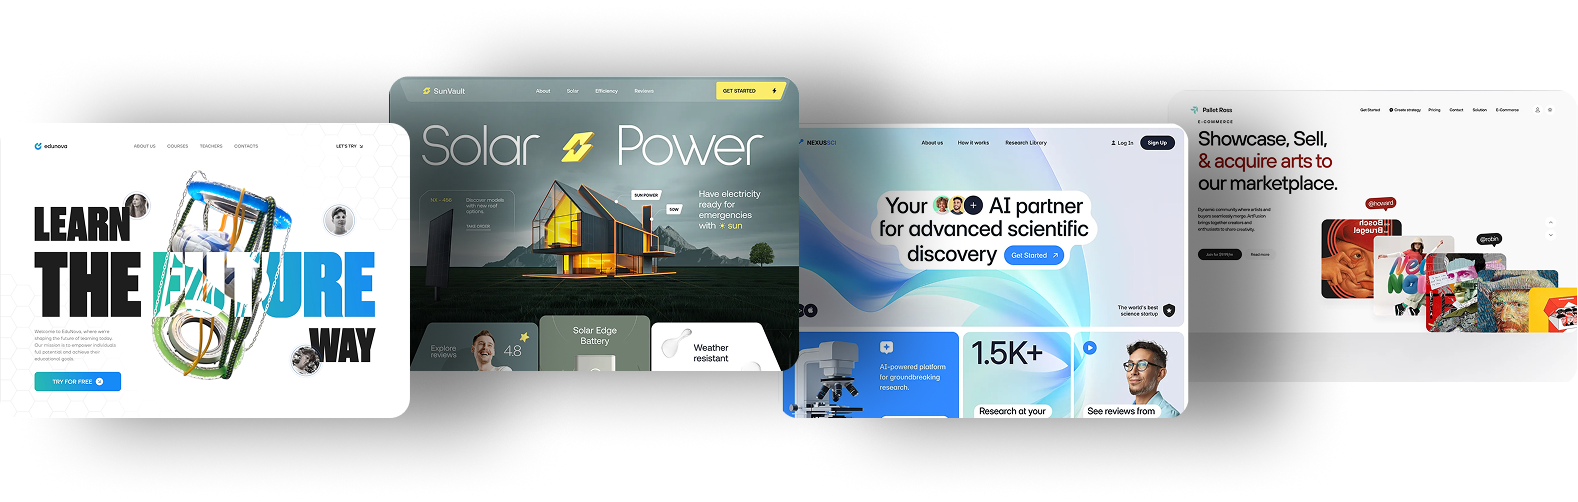
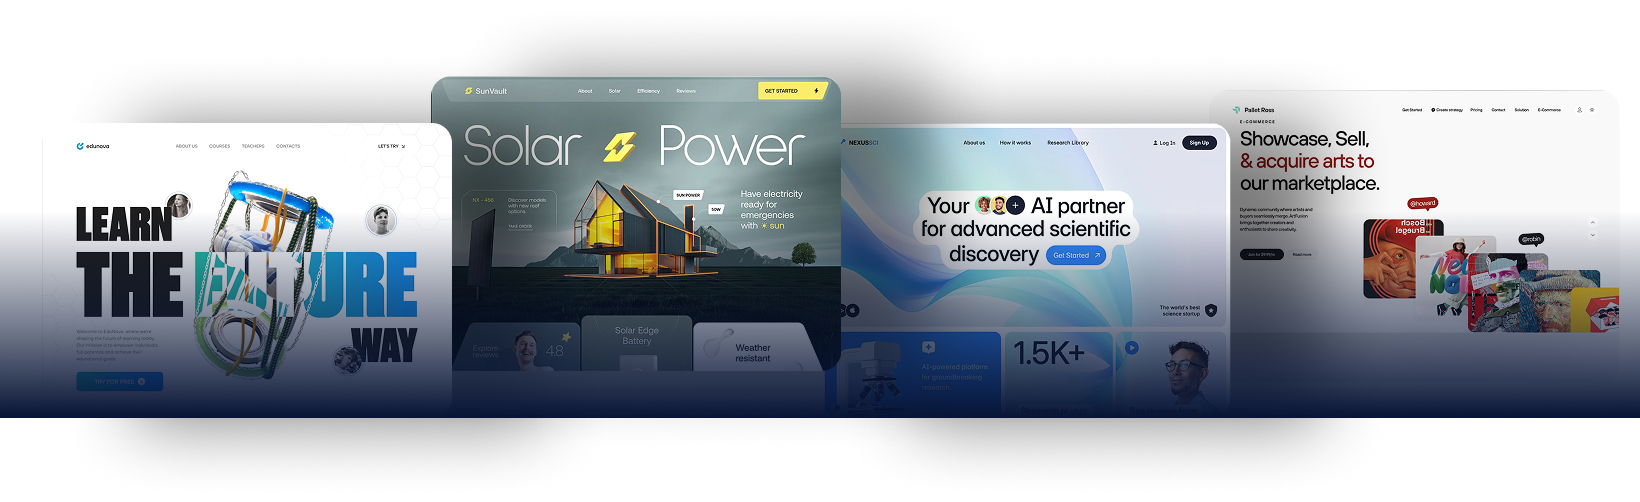
added the projects div on the hero sec

diff --git a/.next/static/chunks/src_app_globals_91e4631d.css b/.next/static/chunks/src_app_globals_91e4631d.css
@@ -142,9 +142,11 @@
     --font-sans: ui-sans-serif, system-ui, sans-serif, "Apple Color Emoji", "Segoe UI Emoji", "Segoe UI Symbol", "Noto Color Emoji";
     --font-mono: ui-monospace, SFMono-Regular, Menlo, Monaco, Consolas, "Liberation Mono", "Courier New", monospace;
     --color-red-600: #e40014;
+    --color-red-700: #bf000f;
     --color-cyan-400: #00d2ef;
     --color-cyan-500: #00b7d7;
     --color-blue-500: #3080ff;
+    --color-blue-900: #1c398e;
     --color-gray-300: #d1d5dc;
     --color-gray-900: #101828;
     --color-white: #fff;
@@ -186,9 +188,11 @@
   @supports (color: color(display-p3 0 0 0)) {
     :root, :host {
       --color-red-600: color(display-p3 .830323 .140383 .133196);
+      --color-red-700: color(display-p3 .692737 .116232 .104679);
       --color-cyan-400: color(display-p3 .294638 .813991 .934996);
       --color-cyan-500: color(display-p3 .246703 .710032 .841444);
       --color-blue-500: color(display-p3 .266422 .491219 .988624);
+      --color-blue-900: color(display-p3 .136395 .219428 .537145);
       --color-gray-300: color(display-p3 .822033 .835264 .858521);
       --color-gray-900: color(display-p3 .070423 .0928982 .151928);
     }
@@ -197,9 +201,11 @@
   @supports (color: lab(0% 0 0)) {
     :root, :host {
       --color-red-600: lab(48.4493% 77.4328 61.5452);
+      --color-red-700: lab(40.4273% 67.2623 53.7441);
       --color-cyan-400: lab(76.6045% -40.9406 -29.6231);
       --color-cyan-500: lab(67.805% -35.3952 -30.2018);
       --color-blue-500: lab(54.1736% 13.3369 -74.6839);
+      --color-blue-900: lab(26.1542% 15.7545 -51.5504);
       --color-gray-300: lab(85.1236% -.612259 -3.7138);
       --color-gray-900: lab(8.11897% .811279 -12.254);
     }
@@ -996,6 +1002,10 @@
     border-color: var(--color-red-600);
   }
 
+  .border-red-700 {
+    border-color: var(--color-red-700);
+  }
+
   .border-white\/10 {
     border-color: rgba(255, 255, 255, .1);
   }
@@ -1070,6 +1080,11 @@
     background-image: linear-gradient(var(--tw-gradient-stops));
   }
 
+  .bg-gradient-to-t {
+    --tw-gradient-position: to top in oklab;
+    background-image: linear-gradient(var(--tw-gradient-stops));
+  }
+
   .from-\[\#00C2FF\] {
     --tw-gradient-from: #00c2ff;
     --tw-gradient-stops: var(--tw-gradient-via-stops, var(--tw-gradient-position), var(--tw-gradient-from) var(--tw-gradient-from-position), var(--tw-gradient-to) var(--tw-gradient-to-position));
@@ -1080,9 +1095,78 @@
     --tw-gradient-stops: var(--tw-gradient-via-stops, var(--tw-gradient-position), var(--tw-gradient-from) var(--tw-gradient-from-position), var(--tw-gradient-to) var(--tw-gradient-to-position));
   }
 
+  .from-blue-500 {
+    --tw-gradient-from: var(--color-blue-500);
+    --tw-gradient-stops: var(--tw-gradient-via-stops, var(--tw-gradient-position), var(--tw-gradient-from) var(--tw-gradient-from-position), var(--tw-gradient-to) var(--tw-gradient-to-position));
+  }
+
+  .from-blue-900 {
+    --tw-gradient-from: var(--color-blue-900);
+    --tw-gradient-stops: var(--tw-gradient-via-stops, var(--tw-gradient-position), var(--tw-gradient-from) var(--tw-gradient-from-position), var(--tw-gradient-to) var(--tw-gradient-to-position));
+  }
+
+  .from-blue-900\/5 {
+    --tw-gradient-from: rgba(28, 57, 142, .05);
+  }
+
+  @supports (color: color-mix(in lab, red, red)) {
+    .from-blue-900\/5 {
+      --tw-gradient-from: color-mix(in oklab, var(--color-blue-900) 5%, transparent);
+    }
+  }
+
+  .from-blue-900\/5 {
+    --tw-gradient-stops: var(--tw-gradient-via-stops, var(--tw-gradient-position), var(--tw-gradient-from) var(--tw-gradient-from-position), var(--tw-gradient-to) var(--tw-gradient-to-position));
+  }
+
   .from-cyan-400 {
     --tw-gradient-from: var(--color-cyan-400);
     --tw-gradient-stops: var(--tw-gradient-via-stops, var(--tw-gradient-position), var(--tw-gradient-from) var(--tw-gradient-from-position), var(--tw-gradient-to) var(--tw-gradient-to-position));
+  }
+
+  .via-blue-900\/5 {
+    --tw-gradient-via: rgba(28, 57, 142, .05);
+  }
+
+  @supports (color: color-mix(in lab, red, red)) {
+    .via-blue-900\/5 {
+      --tw-gradient-via: color-mix(in oklab, var(--color-blue-900) 5%, transparent);
+    }
+  }
+
+  .via-blue-900\/5 {
+    --tw-gradient-via-stops: var(--tw-gradient-position), var(--tw-gradient-from) var(--tw-gradient-from-position), var(--tw-gradient-via) var(--tw-gradient-via-position), var(--tw-gradient-to) var(--tw-gradient-to-position);
+    --tw-gradient-stops: var(--tw-gradient-via-stops);
+  }
+
+  .via-blue-900\/10 {
+    --tw-gradient-via: rgba(28, 57, 142, .1);
+  }
+
+  @supports (color: color-mix(in lab, red, red)) {
+    .via-blue-900\/10 {
+      --tw-gradient-via: color-mix(in oklab, var(--color-blue-900) 10%, transparent);
+    }
+  }
+
+  .via-blue-900\/10 {
+    --tw-gradient-via-stops: var(--tw-gradient-position), var(--tw-gradient-from) var(--tw-gradient-from-position), var(--tw-gradient-via) var(--tw-gradient-via-position), var(--tw-gradient-to) var(--tw-gradient-to-position);
+    --tw-gradient-stops: var(--tw-gradient-via-stops);
+  }
+
+  .via-blue-900\/50 {
+    --tw-gradient-via: rgba(28, 57, 142, .5);
+  }
+
+  @supports (color: color-mix(in lab, red, red)) {
+    .via-blue-900\/50 {
+      --tw-gradient-via: color-mix(in oklab, var(--color-blue-900) 50%, transparent);
+    }
+  }
+
+  .via-blue-900\/50 {
+    --tw-gradient-via-stops: var(--tw-gradient-position), var(--tw-gradient-from) var(--tw-gradient-from-position), var(--tw-gradient-via) var(--tw-gradient-via-position), var(--tw-gradient-to) var(--tw-gradient-to-position);
+    --tw-gradient-stops: var(--tw-gradient-via-stops);
   }
 
   .to-\[\#01F1D6\] {
@@ -1092,6 +1176,11 @@
 
   .to-blue-500 {
     --tw-gradient-to: var(--color-blue-500);
+    --tw-gradient-stops: var(--tw-gradient-via-stops, var(--tw-gradient-position), var(--tw-gradient-from) var(--tw-gradient-from-position), var(--tw-gradient-to) var(--tw-gradient-to-position));
+  }
+
+  .to-transparent {
+    --tw-gradient-to: transparent;
     --tw-gradient-stops: var(--tw-gradient-via-stops, var(--tw-gradient-position), var(--tw-gradient-from) var(--tw-gradient-from-position), var(--tw-gradient-to) var(--tw-gradient-to-position));
   }
 

diff --git a/.next/server/chunks/ssr/[root-of-the-server]__31a078af._.js b/.next/server/chunks/ssr/[root-of-the-server]__31a078af._.js
@@ -375,7 +375,7 @@ const Hero = ()=>{
                                                             children: "AGENCY"
                                                         }, void 0, false, {
                                                             fileName: "[project]/src/components/sections/hero.jsx",
-                                                            lineNumber: 56,
+                                                            lineNumber: 55,
                                                             columnNumber: 19
                                                         }, ("TURBOPACK compile-time value", void 0)),
                                                         /*#__PURE__*/ (0, __TURBOPACK__imported__module__$5b$project$5d2f$node_modules$2f$next$2f$dist$2f$server$2f$route$2d$modules$2f$app$2d$page$2f$vendored$2f$rsc$2f$react$2d$jsx$2d$dev$2d$runtime$2e$js__$5b$app$2d$rsc$5d$__$28$ecmascript$29$__["jsxDEV"])("div", {
@@ -385,13 +385,13 @@ const Hero = ()=>{
                                                             }
                                                         }, void 0, false, {
                                                             fileName: "[project]/src/components/sections/hero.jsx",
-                                                            lineNumber: 59,
+                                                            lineNumber: 58,
                                                             columnNumber: 19
                                                         }, ("TURBOPACK compile-time value", void 0))
                                                     ]
                                                 }, void 0, true, {
                                                     fileName: "[project]/src/components/sections/hero.jsx",
-                                                    lineNumber: 49,
+                                                    lineNumber: 48,
                                                     columnNumber: 17
                                                 }, ("TURBOPACK compile-time value", void 0))
                                             ]
@@ -416,7 +416,7 @@ const Hero = ()=>{
                                 children: "Lets Start Discussing Your Project"
                             }, void 0, false, {
                                 fileName: "[project]/src/components/sections/hero.jsx",
-                                lineNumber: 72,
+                                lineNumber: 71,
                                 columnNumber: 11
                             }, ("TURBOPACK compile-time value", void 0))
                         ]
@@ -433,26 +433,26 @@ const Hero = ()=>{
             }, ("TURBOPACK compile-time value", void 0)),
             /*#__PURE__*/ (0, __TURBOPACK__imported__module__$5b$project$5d2f$node_modules$2f$next$2f$dist$2f$server$2f$route$2d$modules$2f$app$2d$page$2f$vendored$2f$rsc$2f$react$2d$jsx$2d$dev$2d$runtime$2e$js__$5b$app$2d$rsc$5d$__$28$ecmascript$29$__["jsxDEV"])("div", {
                 children: /*#__PURE__*/ (0, __TURBOPACK__imported__module__$5b$project$5d2f$node_modules$2f$next$2f$dist$2f$server$2f$route$2d$modules$2f$app$2d$page$2f$vendored$2f$rsc$2f$react$2d$jsx$2d$dev$2d$runtime$2e$js__$5b$app$2d$rsc$5d$__$28$ecmascript$29$__["jsxDEV"])("div", {
-                    className: "flex justify-center",
+                    className: "relative flex justify-center ",
                     children: /*#__PURE__*/ (0, __TURBOPACK__imported__module__$5b$project$5d2f$node_modules$2f$next$2f$dist$2f$server$2f$route$2d$modules$2f$app$2d$page$2f$vendored$2f$rsc$2f$react$2d$jsx$2d$dev$2d$runtime$2e$js__$5b$app$2d$rsc$5d$__$28$ecmascript$29$__["jsxDEV"])(__TURBOPACK__imported__module__$5b$project$5d2f$node_modules$2f$next$2f$image$2e$js__$5b$app$2d$rsc$5d$__$28$ecmascript$29$__["default"], {
                         src: "/hero/heroProjects.png",
                         alt: "Robot Head",
-                        width: 192,
-                        height: 192,
+                        width: 1200,
+                        height: 1200,
                         className: ""
                     }, void 0, false, {
                         fileName: "[project]/src/components/sections/hero.jsx",
-                        lineNumber: 79,
-                        columnNumber: 3
+                        lineNumber: 78,
+                        columnNumber: 11
                     }, ("TURBOPACK compile-time value", void 0))
                 }, void 0, false, {
                     fileName: "[project]/src/components/sections/hero.jsx",
-                    lineNumber: 78,
-                    columnNumber: 1
+                    lineNumber: 77,
+                    columnNumber: 9
                 }, ("TURBOPACK compile-time value", void 0))
             }, void 0, false, {
                 fileName: "[project]/src/components/sections/hero.jsx",
-                lineNumber: 77,
+                lineNumber: 76,
                 columnNumber: 7
             }, ("TURBOPACK compile-time value", void 0))
         ]

diff --git a/src/components/sections/hero.jsx b/src/components/sections/hero.jsx
@@ -44,7 +44,6 @@ const Hero = () => {
 
               <div className="mt-2 flex flex-wrap items-center justify-center gap-4 sm:gap-6">
                 <span>WINNING DIGITAL</span>
-                {/* <span className="relative inline-block px-8 py-2 md:px-10 md:py-3 text-[#0a1628] bg-cyan-400  border border-red-600"> */}
 
                 <span
                   className="relative inline-block px-8 py-2 md:px-10 md:py-3 text-[#0a1628] bg-cyan-400"
@@ -75,15 +74,16 @@ const Hero = () => {
         </div>
       </div>
       <div>
-<div className="flex justify-center">
-  <Image
-    src="/hero/heroProjects.png"
-    alt="Robot Head"
-    width={192}
-    height={192}
-    className=""
-  />
-</div>
+        <div className="relative flex justify-center ">
+          <Image
+            src="/hero/heroProjects.png"
+            alt="Robot Head"
+            width={1200}
+            height={1200}
+            className=""
+          />
+
+        </div>
       </div>
     </>
   );
